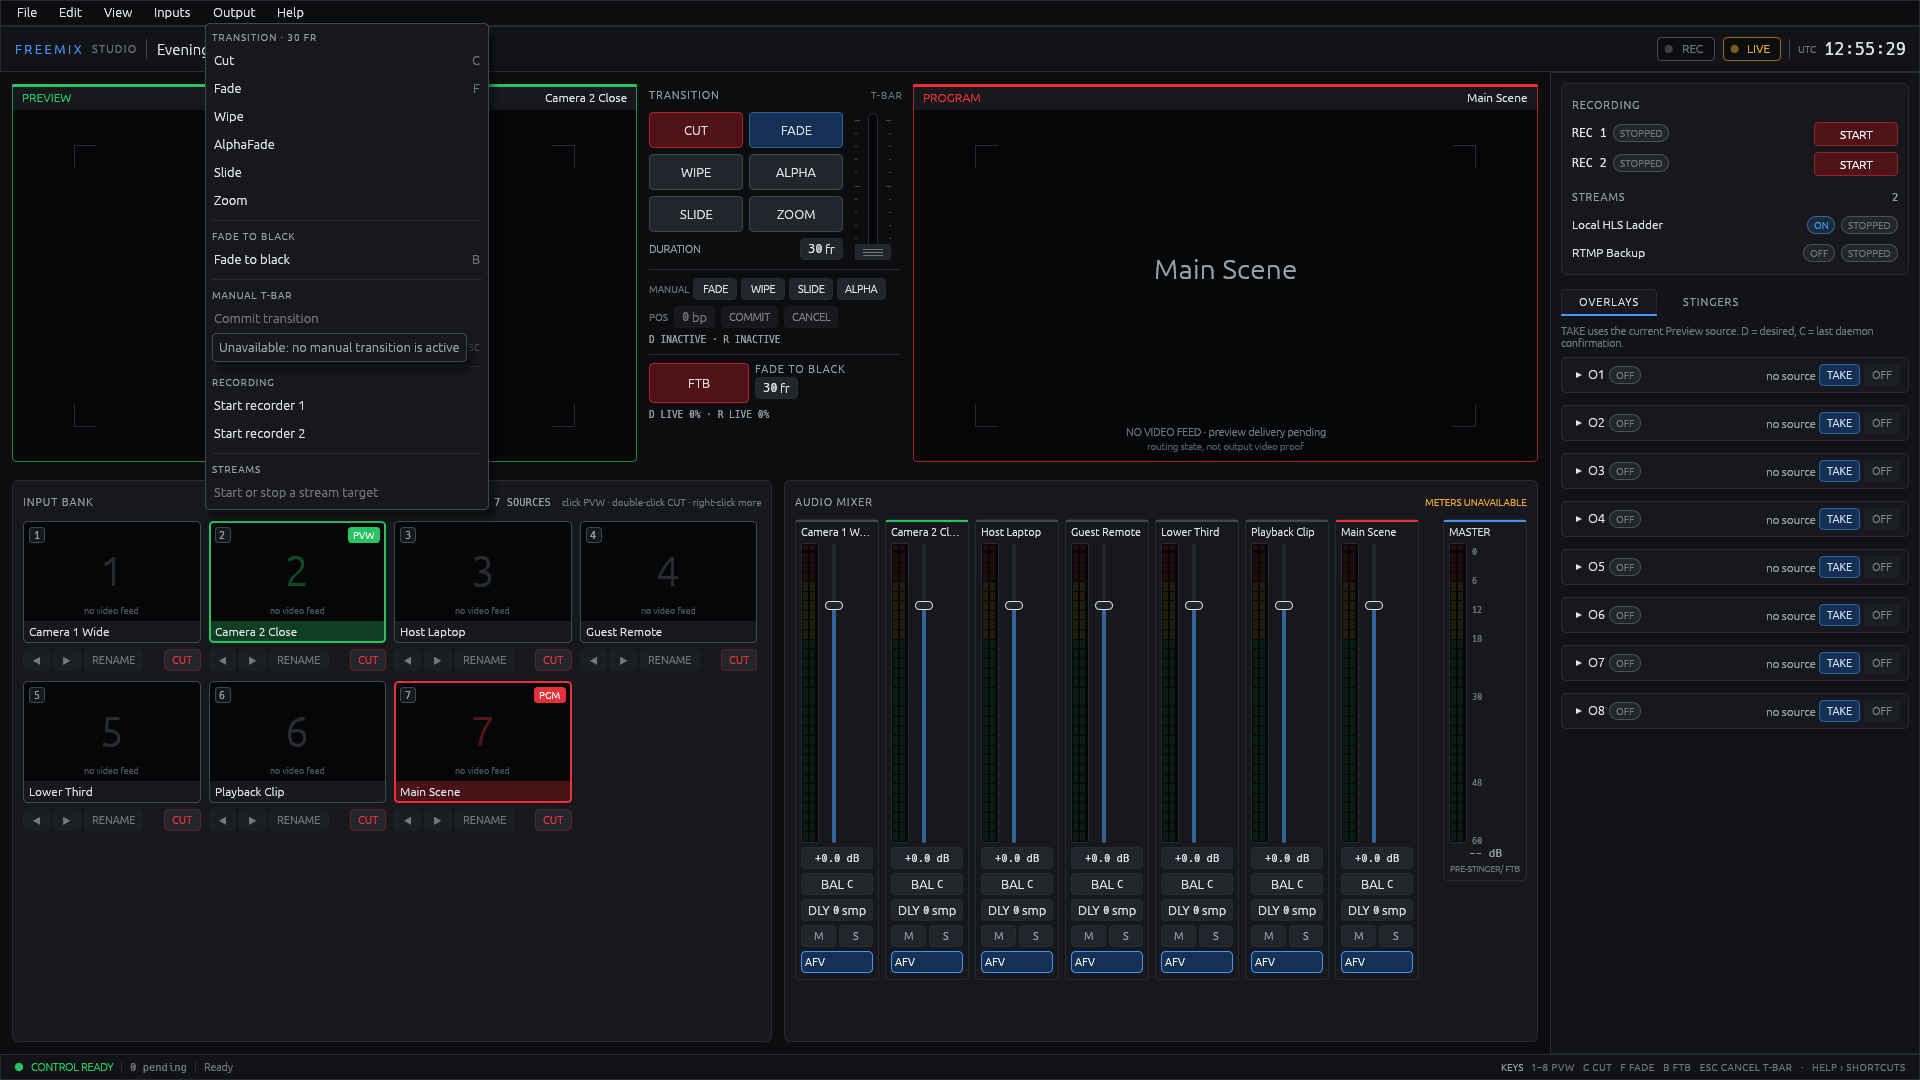
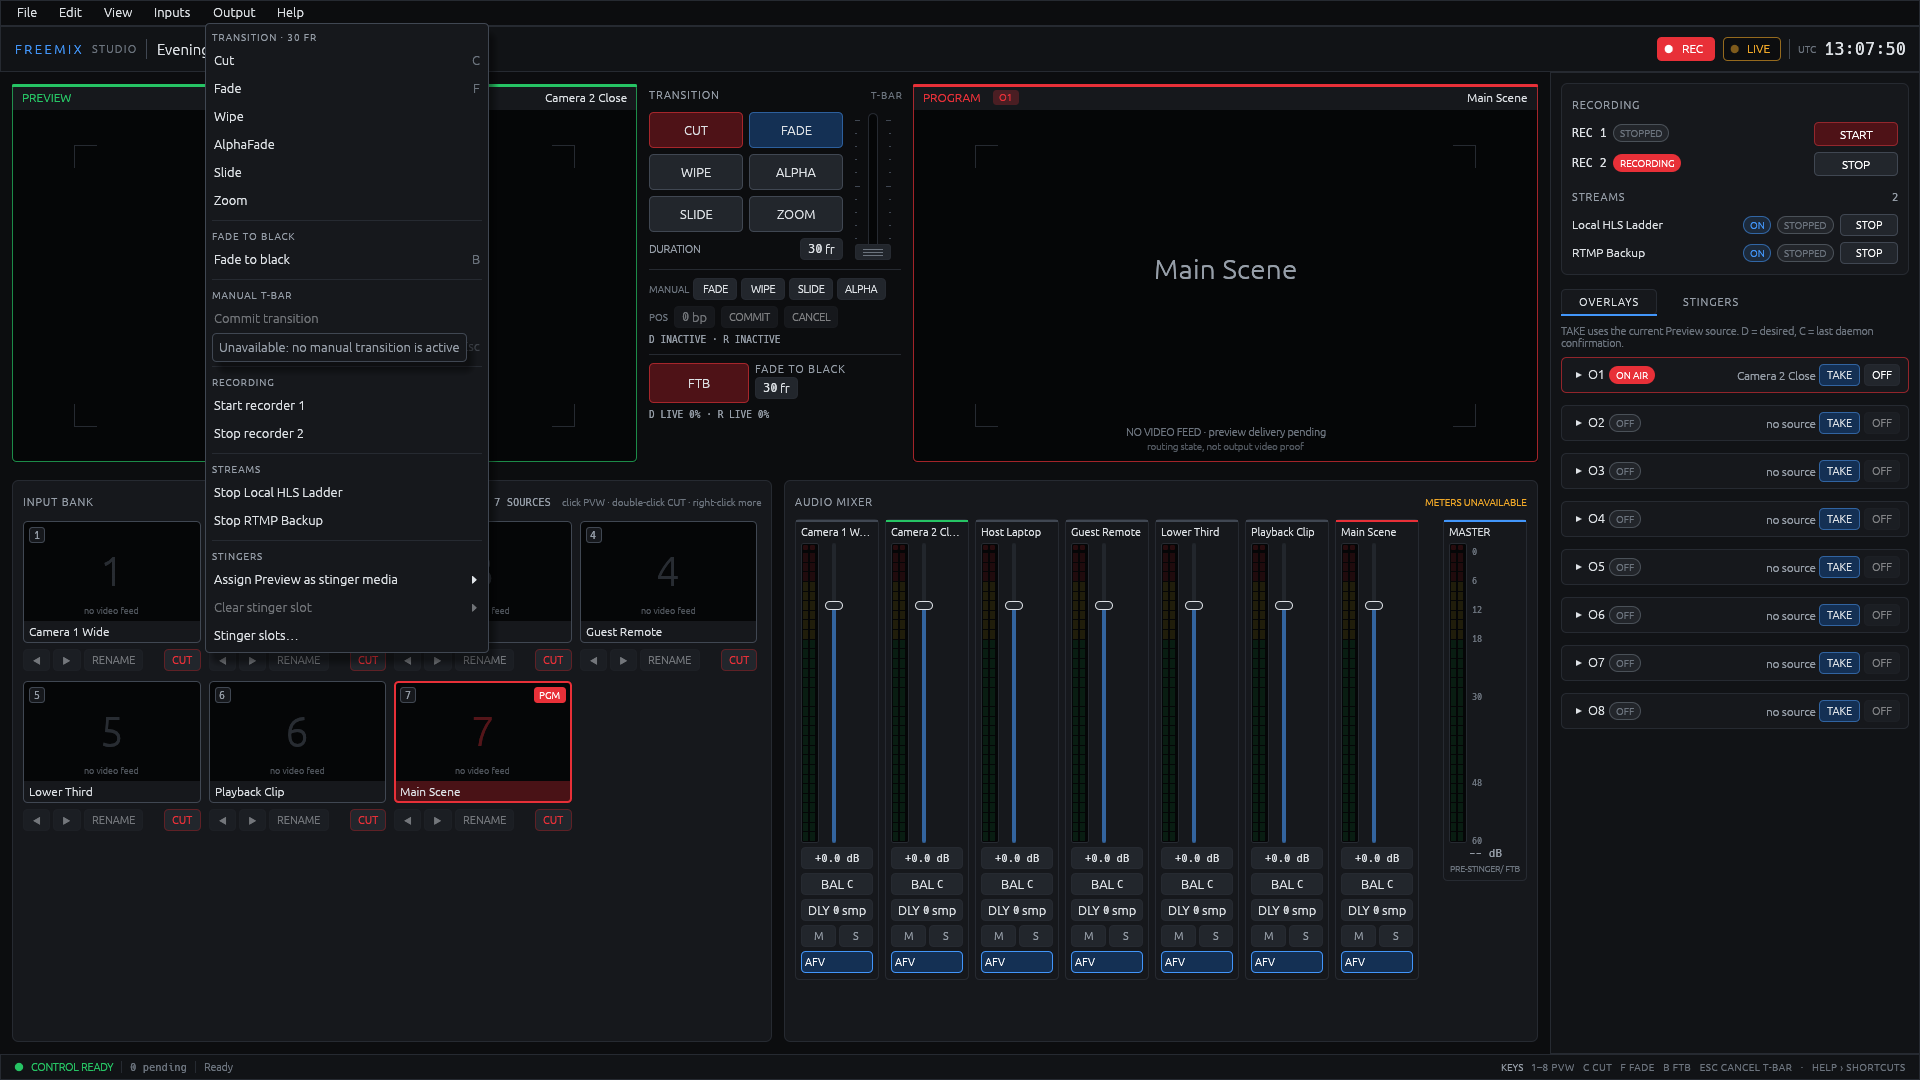
docs(progress): capture the stream keys and stinger slot configuration

diff --git a/docs/progress/README.md b/docs/progress/README.md
@@ -17,12 +17,24 @@ double-click or `CUT` = Preview then Cut); the audio mixer with vertical
 channel strips (segmented RMS meters with a peak line, a peak-hold marker that
 holds 1.5 s then falls 20 dB/s, and a clip lamp latched 3 s at 0 dBFS; fader,
 gain/balance/delay, M/S/AFV) and a pinned Master meter strip; a side panel
-with recording and stream status above Overlays/Stingers tabs; and a bottom
+with per-slot recorder keys and per-target stream rows (desired `ON`/`OFF`,
+realized state, and one `START`/`STOP` key) above Overlays/Stingers tabs, the
+Stingers tab ending in a Configure slot row (slot and media pickers with
+`ASSIGN`/`CLEAR`); and a bottom
 status bar with the latest result/notice and keyboard hints.
 
 Menu items map only to existing Studio intents under their usual gates (the
-Edit menu acts on the Preview input; there is no add/remove-input or stream
-start/stop intent, so none is offered, and the Streams item explains that).
+Edit menu acts on the Preview input). Output › Streams lists one Start/Stop
+item per configured target (`stream_start`/`stream_stop`), and Output ›
+Stingers assigns the Preview input to a slot (`configure_stinger`) or clears a
+configured slot (`remove_stinger`). Stream and Stinger actions require the
+`transition` permission, as the daemon admits them; a stream key also waits
+for that target's earlier command to resolve (`PENDING`), and Stinger
+configuration is blocked during a manual T-bar transition. Assigning media to a
+configured slot keeps its preload, cut point, audio policy, and fallback; an
+unconfigured slot is preloaded, mixes with Program audio, falls back to Cut,
+and cuts at half the shared transition duration. The protocol has no
+add/remove/duplicate-input command, so none is offered.
 View toggles the input bank, mixer, side panel, and status bar. Every gated
 control, menu item, and tile action shows its action and shortcut as a tooltip
 and, when disabled, the first blocking gate ("Unavailable: this session lacks
@@ -38,14 +50,20 @@ and clip lamps are not visible here.
 
 | File | What it shows |
 |---|---|
-| `studio-console-overview.png` | 1920x1080 overview: REC 2 recording (red `REC` badge lit), overlay O1 taken from Preview and confirmed `ON AIR` (also badged on the Program header), the HLS ladder desired running but not reported live (amber `LIVE` outline), Camera 2 Close on Preview and Main Scene on Program. |
+| `studio-console-overview.png` | 1920x1080 overview: REC 2 recording (red `REC` badge lit), overlay O1 taken from Preview and confirmed `ON AIR` (also badged on the Program header), the HLS ladder desired running but not reported live (amber `LIVE` outline) with its `STOP` key, the stopped RTMP target with `START`, Camera 2 Close on Preview and Main Scene on Program. |
+| `studio-console-streams.png` | After clicking `START` on the RTMP Backup row: both targets desired `ON` with `STOP` keys (realized `STOPPED` in simulated mode), and the Output menu's Streams items (`Stop Local HLS Ladder`, `Stop RTMP Backup`) with the action tooltip. |
+| `studio-console-stingers.png` | The Stingers tab after choosing Playback Clip in the Configure slot media picker and clicking `ASSIGN` for S1: S1 `READY`, `CLEAR` enabled, and the slot summary (cut 15 fr, preload, mixed audio, fallback cut). |
 | `studio-console-top.png` | The default 1600x940 window, idle: both recorder slots `STOPPED` with their `START` keys, overlays collapsed to one row per channel. |
 | `studio-console-stopped.png` | The compact 1280x800 layout with both recorder slots `STOPPED`; the input bank and mixer scroll inside their cards and the Master strip stays pinned. |
 | `studio-console-recording.png` | 1600x940 with independent per-slot recording (`REC 1 STOPPED` / `START` beside `REC 2 RECORDING` / `STOP`) and the Stingers tab showing all eight unconfigured slots. |
-| `studio-console-menu.png` | 1920x1080 with the Output menu open (transitions with their `C`/`F` keys, Fade to black `B`, manual T-bar Commit/Cancel `Esc`, per-slot recorder Start, and the read-only Streams note), hovering the disabled Commit item to show its reason. |
+| `studio-console-menu.png` | 1920x1080 with the Output menu open (transitions with their `C`/`F` keys, Fade to black `B`, manual T-bar Commit/Cancel `Esc`, per-slot recorder Start/Stop, per-target stream Start/Stop, and the Stingers assign/clear submenus), hovering the disabled Commit item to show its reason. |
 | `studio-console-shortcuts.png` | Help › Keyboard shortcuts: the modal reference generated from the same table the console's key handler is tested against. |
 | `studio-console-input-menu.png` | Right-click menu on the Host Laptop tile: Select on Preview / Cut to Program enabled; Rename and Move disabled because the operator session lacks `edit_project`. |
 | `studio-console-reconnecting.png` | 1600x940 Studio started with `--connect` to an address with no daemon: the Reconnecting card with its attempt count and retry delay over the dimmed monitors, every control disabled, and the full error in the status bar. |
+
+`studio-console-top.png`, `-stopped.png`, `-recording.png`, `-shortcuts.png`,
+`-input-menu.png`, and `-reconnecting.png` predate the stream keys and the
+Stinger configuration row.
 
 The demo show used for the captures ("Evening Broadcast") has six simulated
 inputs, one scene input ("Main Scene") with two picture-in-picture layers, an
@@ -101,7 +119,10 @@ DISPLAY=:99 import -window root shot.png
 
 Software Vulkan is slow; allow roughly ten seconds after the window maps
 before capturing. The overview's overlay take was a click on O1 `TAKE` in the
-side panel; the recording capture clicked the `STINGERS` tab. The menu,
+side panel; the recording capture clicked the `STINGERS` tab. The streams
+capture clicked `START` on the RTMP Backup row, then opened `Output` and
+hovered `Stop RTMP Backup`; the stingers capture clicked the `STINGERS` tab,
+picked Playback Clip in the Configure slot media picker, and clicked `ASSIGN`. The menu,
 shortcuts, and input-menu captures click `Output`, `Help` › `Keyboard
 shortcuts`, and right-click the third tile (`xdotool click 3`); keyboard input
 such as `Escape` needs `xdotool windowfocus "$WIN"` first because Xvfb runs
